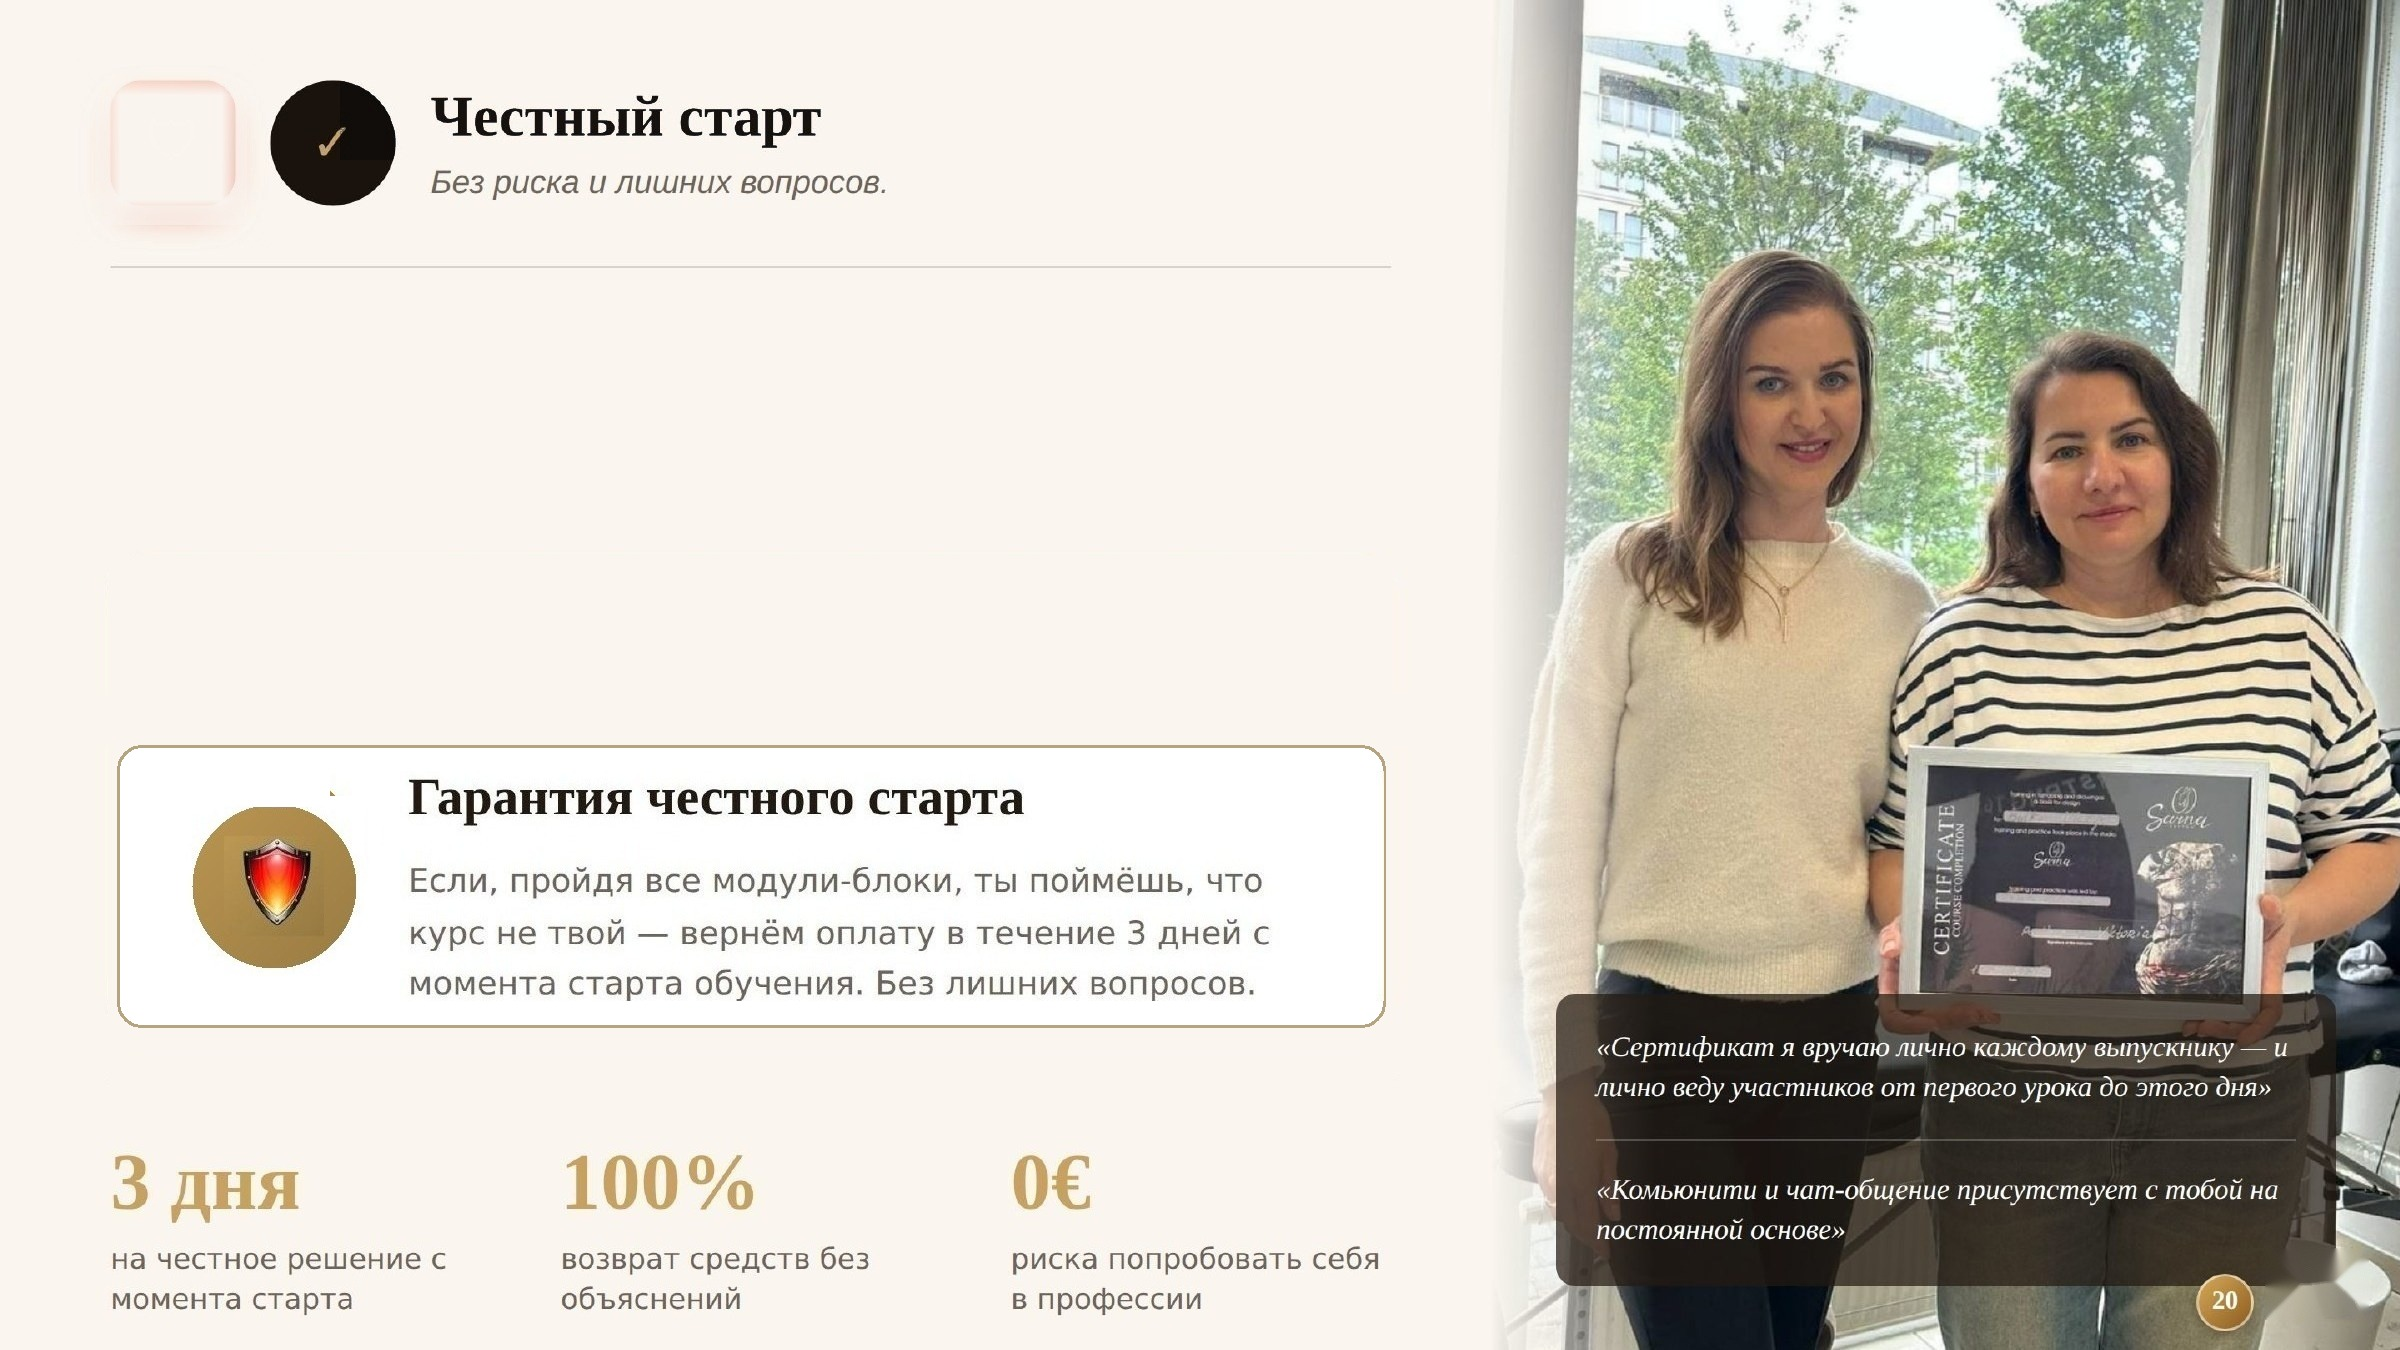
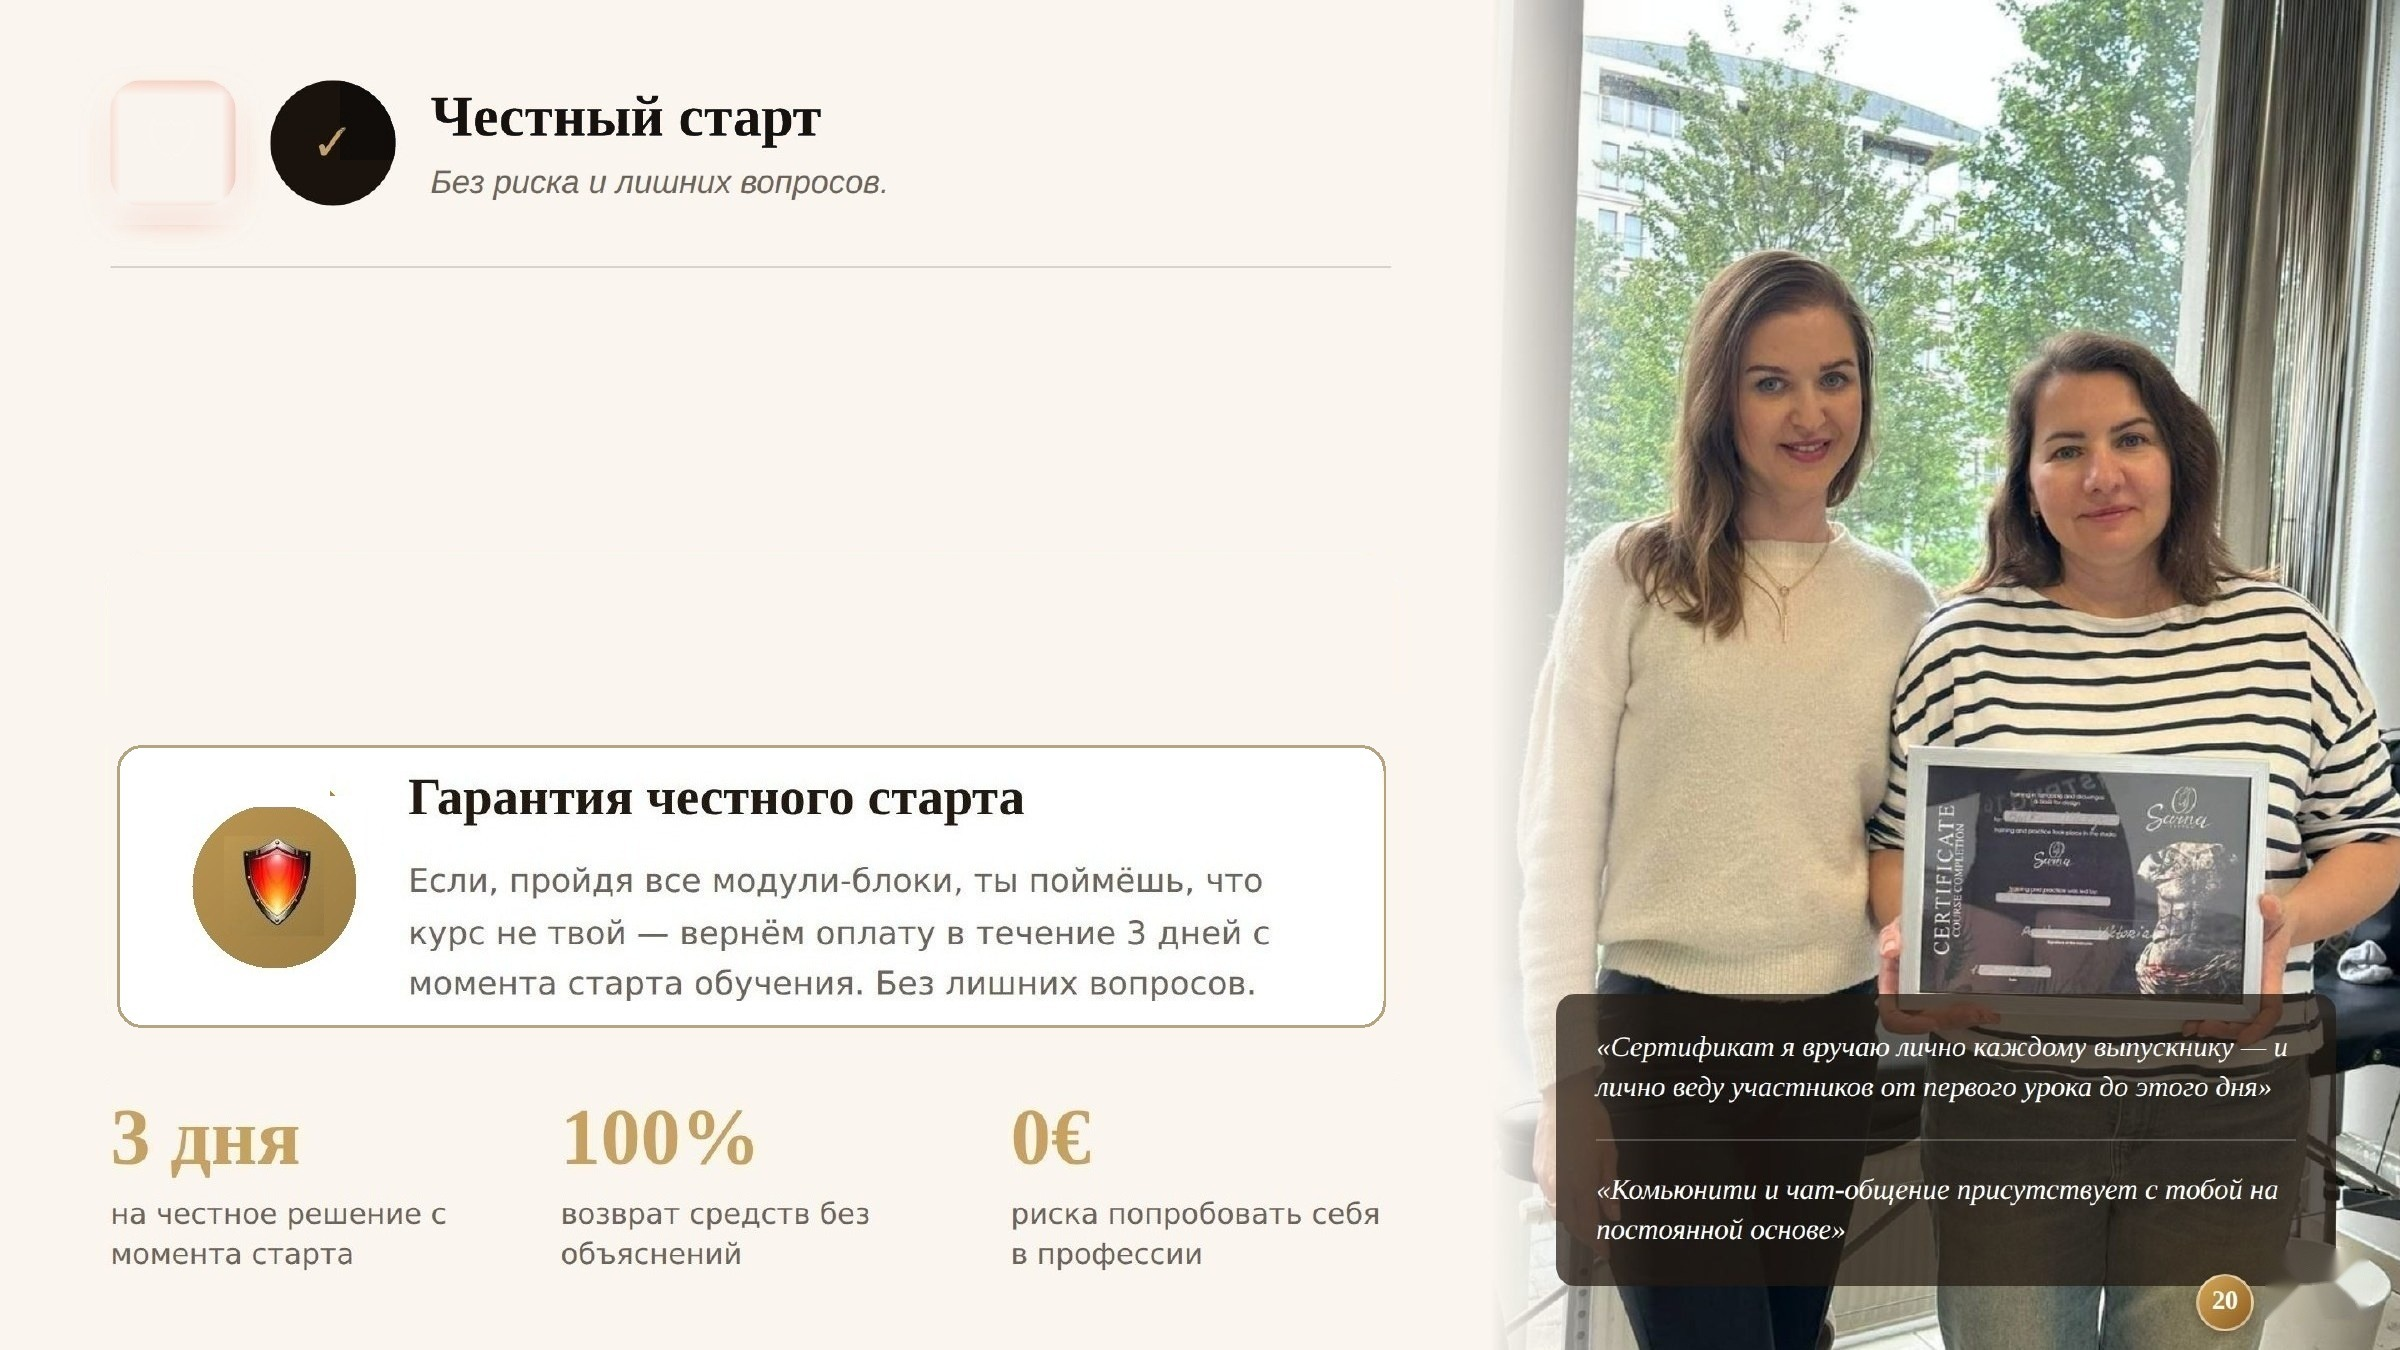
Center the stats row vertically between the card and slide bottom
The "3 дня / 100% / 0€" row sat 127px below the guarantee card but
only 36px above the slide's bottom edge -- shifted it up ~45px so the
gap is roughly equal on both sides.

Claude-Session: https://claude.ai/code/session_01CnfRud7UFKfhrBcKWTmy69

Changed region(s): [[0.0312, 0.8089, 0.1875, 0.9644], [0.4062, 0.8089, 0.5625, 0.9956], [0.2188, 0.8089, 0.375, 0.9644]]

diff --git a/docs/index.html b/docs/index.html
@@ -380,7 +380,7 @@
   </div>
   <div class="slide-wrap"><img class="slide-img" src="assets/slides/slide-20.jpg?v=7" alt="Слайд 20 — почему именно это обучение"><div class="ov sq-icon-hdr" style="left:3.958%;top:5.185%;width:6.333%;height:11.481%;"><img src="assets/icons/scales.png?v=3" alt=""></div><div class="ov ov-badge on-light" style="left:91.29%;"><span class="num">20</span><span class="den">/23</span></div></div>
   <div class="slide-wrap">
-    <img class="slide-img" src="assets/slides/slide-21.jpg?v=17" alt="Слайд 21 — честный старт">
+    <img class="slide-img" src="assets/slides/slide-21.jpg?v=18" alt="Слайд 21 — честный старт">
     <div class="ov sq-icon-hdr" style="left:3.958%;top:5.185%;width:6.333%;height:11.481%;"><img src="assets/icons/shield.png?v=3" alt=""></div>
     <div class="ov ov-s21-honest">
       <div class="eyebrow">Честный ответ</div>
